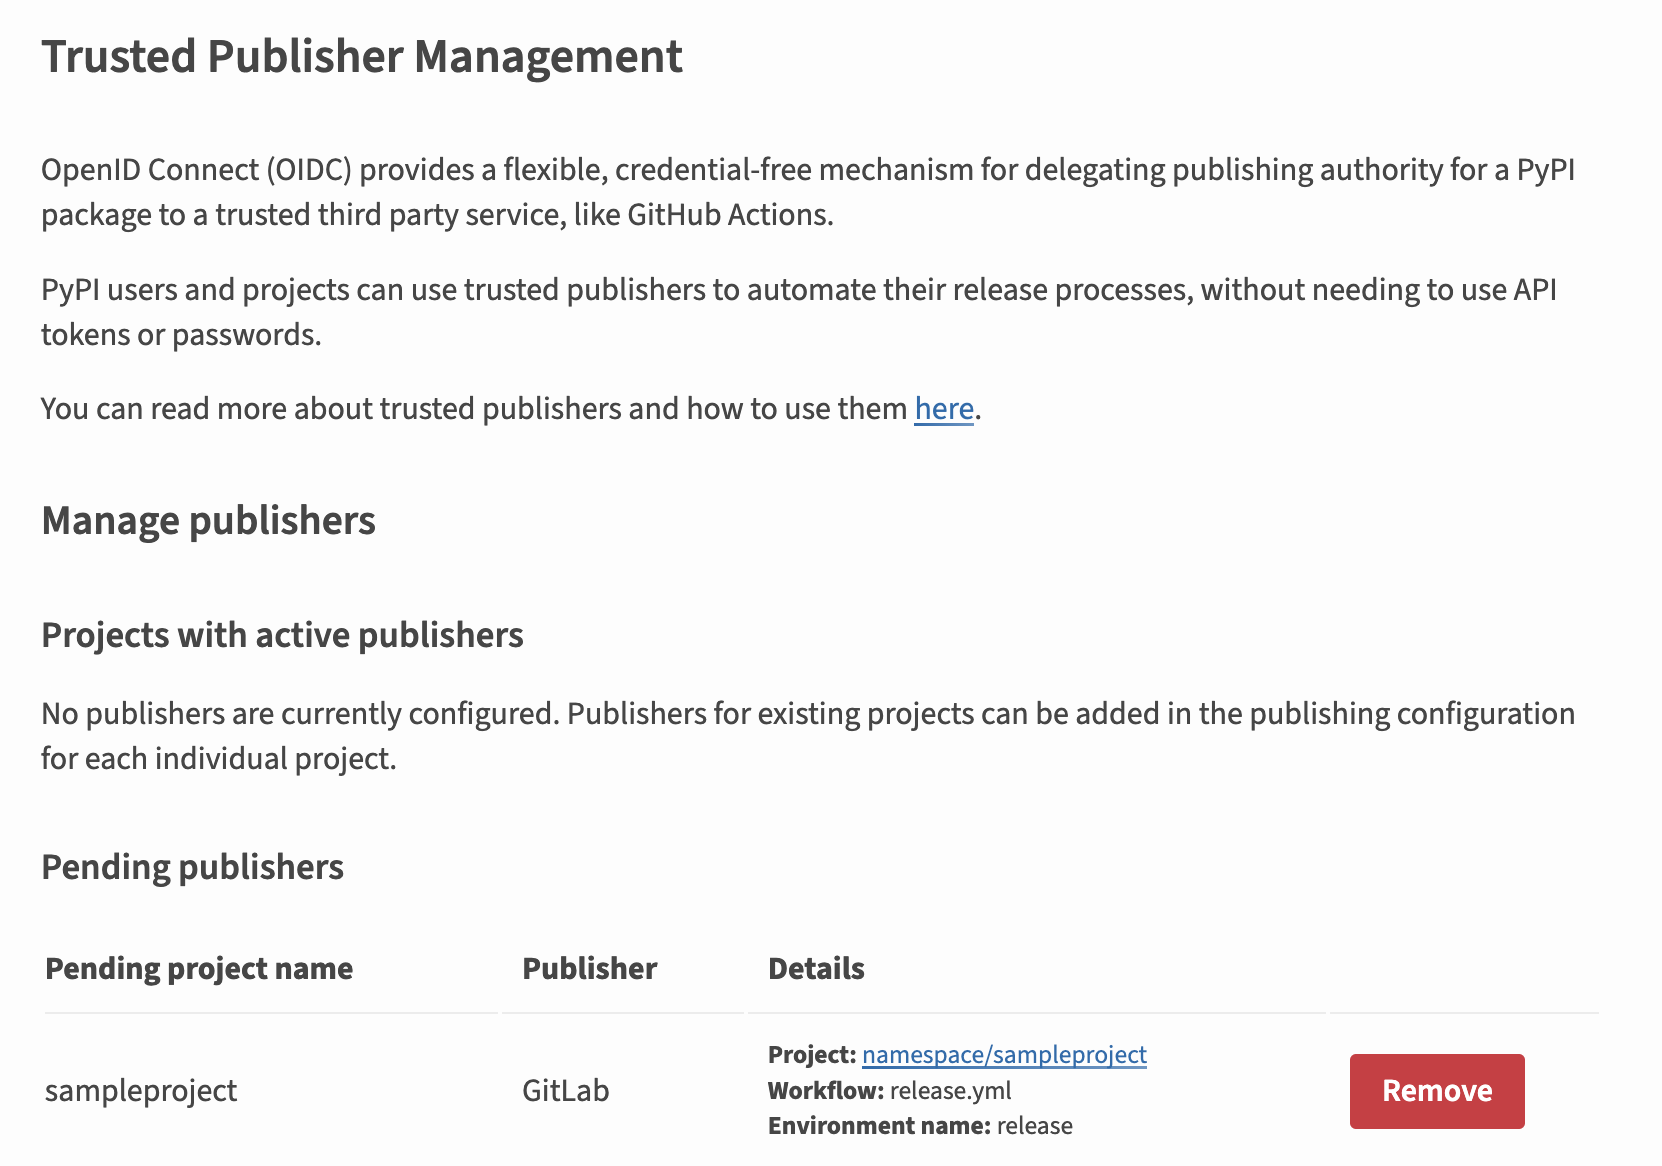
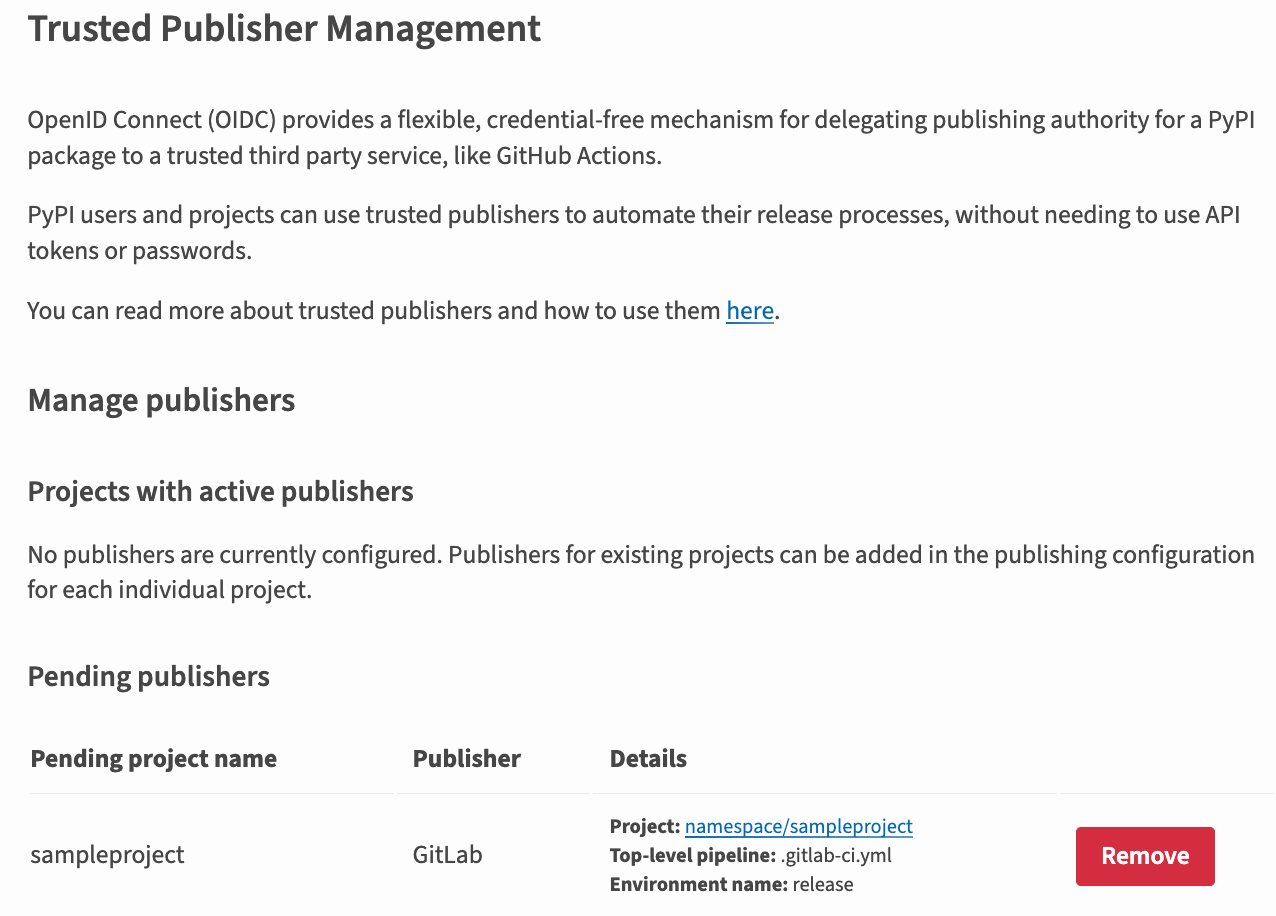
Fix GitLab Trusted Publishers UI and docs
Change the "workflow file path" field in the UI and in the docs to
"top-level pipeline file path". This is the correct term, since
GitLab OIDC claims only provide the top-level pipeline (usually
`.gitlab-ci.yml`), rather than individual jobs/workflows.

Also change the security model doc, to clarify that PyPI cannot
tell the difference between different .yml files that are included
in `.gitlab-ci.yml`, since it's the latter that is reported in
the claims.

diff --git a/warehouse/templates/manage/project/publishing.html b/warehouse/templates/manage/project/publishing.html
@@ -167,14 +167,14 @@
       </div>
       <div class="form-group">
         <label for="workflow_filepath" class="form-group__label">
-          {% trans %}Workflow file path{% endtrans %}
+          {% trans %}Top-level pipeline file path{% endtrans %}
           {% if gitlab_publisher_form.workflow_filepath.flags.required %}
           <span class="form-group__required">{% trans %}(required){% endtrans %}</span>
           {% endif %}
         </label>
         {{ gitlab_publisher_form.workflow_filepath(placeholder=gettext(".gitlab-ci.yml"), class_="form-group__field", autocomplete="off", **{"aria-describedby":"workflow_filepath-errors"}) }}
         <p class="form-group__help-text">
-          {% trans %}The file path of the publishing workflow, relative to the project's root. This file should exist in the project configured above (external workflows are not supported).{% endtrans %}
+          {% trans %}The file path of the top-level pipeline, relative to the project's root. This file should exist in the project configured above (external pipelines are not supported).{% endtrans %}
         </p>
         <div id="workflow_filepath-errors">
           {{ field_errors(gitlab_publisher_form.workflow_filepath) }}

diff --git a/warehouse/templates/manage/account/publishing.html b/warehouse/templates/manage/account/publishing.html
@@ -199,14 +199,14 @@
     </div>
     <div class="form-group">
       <label for="workflow_filepath" class="form-group__label">
-        {% trans %}Workflow file path{% endtrans %}
+        {% trans %}Top-level pipeline file path{% endtrans %}
         {% if pending_gitlab_publisher_form.workflow_filepath.flags.required %}
         <span class="form-group__required">{% trans %}(required){% endtrans %}</span>
         {% endif %}
       </label>
       {{ pending_gitlab_publisher_form.workflow_filepath(placeholder=gettext(".gitlab-ci.yml"), class_="form-group__field", autocomplete="off", **{"aria-describedby":"workflow_filepath-errors"}) }}
       <p class="form-group__help-text">
-        {% trans %}The file path of the publishing workflow, relative to the project's root. This file should exist in the project configured above (external workflows are not supported).{% endtrans %}
+        {% trans %}The file path of the top-level pipeline, relative to the project's root. This file should exist in the project configured above (external pipelines are not supported).{% endtrans %}
       </p>
       <div id="workflow_filepath-errors">
         {{ field_errors(pending_gitlab_publisher_form.workflow_filepath) }}

diff --git a/warehouse/templates/manage/manage_base.html b/warehouse/templates/manage/manage_base.html
@@ -547,7 +547,7 @@
       {% endif %}
     {% elif publisher.publisher_name == "GitLab" %}
       <b>Project:</b> <a href="{{ publisher.publisher_url() }}">{{ publisher.project_path }}</a><br>
-      <b>Workflow:</b> {{ publisher.workflow_filepath }}<br>
+      <b>Top-level pipeline:</b> {{ publisher.workflow_filepath }}<br>
       <b>Environment name:</b>
       {% if publisher.environment %}
         {{ publisher.environment }}

diff --git a/warehouse/oidc/forms/gitlab.py b/warehouse/oidc/forms/gitlab.py
@@ -50,7 +50,9 @@ class GitLabPublisherBase(forms.Form):
 
     workflow_filepath = wtforms.StringField(
         validators=[
-            wtforms.validators.InputRequired(message=_("Specify workflow filepath"))
+            wtforms.validators.InputRequired(
+                message=_("Specify top-level pipeline file path")
+            )
         ]
     )
 
@@ -73,11 +75,11 @@ class GitLabPublisherBase(forms.Form):
             workflow_filepath.endswith(".yml") or workflow_filepath.endswith(".yaml")
         ):
             raise wtforms.validators.ValidationError(
-                _("Workflow file path must end with .yml or .yaml")
+                _("Top-level pipeline file path must end with .yml or .yaml")
             )
         if workflow_filepath.startswith("/") or workflow_filepath.endswith("/"):
             raise wtforms.validators.ValidationError(
-                _("Workflow file path cannot start or end with /")
+                _("Top-level pipeline file path cannot start or end with /")
             )
 
     @property

diff --git a/docs/user/trusted-publishers/security-model.md b/docs/user/trusted-publishers/security-model.md
@@ -180,14 +180,14 @@ own security model and considerations.
       [`id_tokens`](https://docs.gitlab.com/ee/ci/yaml/index.html#id_tokens) keyword,
       along with the desired audience. The tokens are made available through
       environment variables when the job runs.
-    * The claims defined in an OIDC token are *bound to the workflow*, meaning
-      that a workflow defined at `foo.yml` in `org/repo` **cannot impersonate**
-      a workflow defined at `bar.yml` in `org/repo`. However, if `foo.yml` is
-      *renamed* to `bar.yml`, then the *new* `bar.yml` will be indistinguishable
-      from the old `bar.yml` **except** for claims that reflect the repository's
-      state (e.g. `git` ref, branch, etc.).
-    * An OIDC token for a specific repository and workflow can be generated by anyone
-      who has permissions to run that workflow in the repository's CI/CD.
+    * The claims defined in an OIDC token are *bound to the group and project*, meaning that a
+      repository located at orgA/repo cannot impersonate a repository located at orgB/repo.
+    * The claims defined in an OIDC token are *bound to the top-level pipeline*, meaning
+      that any pipeline included by the top-level pipeline (usually `.gitlab-ci.yml`)
+      will be able to upload using a trusted publisher that trusts the `.gitlab-ci.yml`
+      pipeline.
+    * An OIDC token for a specific repository and pipeline can be generated by anyone
+      who has permissions to run that pipeline in the repository's CI/CD.
 
     <h3>Considerations</h3>
 
@@ -203,14 +203,13 @@ own security model and considerations.
           username or group is deleted and a new one with the same name is created,
           PyPI will still recognise OIDC tokens generated by the new one as valid.
 
-        * Trust the correct workflow: you shouldn't trust every workflow
-          to upload to PyPI; instead, you should isolate responsibility to the
-          smallest (and least-privileged) possible separate workflow. We recommend
-          naming this workflow `release.yml`.
-
         * Take care when merging third-party changes to your code: if you trust
-          `release.yml`, then you must make sure that third-party changes to that
-          workflow (or code that runs within that workflow) are not malicious.
+          the top-level pipeline `.gitlab-ci.yml`, then you must make sure that
+          third-party changes to that file are not malicious. This is particularly
+          important since GitLab does not provide granular information about which
+          job requested the token: only the top-level pipeline is included in the
+          claims, which means that any job run by the top-level pipeline can request
+          a valid OIDC token.
 
         * Take care when adding repository contributors, members, and administrators:
           by default, anybody who can unconditionally commit to your repository can

diff --git a/docs/user/trusted-publishers/adding-a-publisher.md b/docs/user/trusted-publishers/adding-a-publisher.md
@@ -112,14 +112,14 @@ each.
         instances are not supported.
 
     For GitLab CI/CD, you **must** provide the repository's namespace, the
-    repository's name, and the filepath of the GitLab CI/CD workflow that's
-    authorized to upload to PyPI. In addition, you may **optionally**
-    provide the name of a
+    repository's name, and the filepath of the top-level GitLab CI/CD pipeline
+    definition that's authorized to upload to PyPI. In addition, you may
+    **optionally** provide the name of a
     [GitLab CI/CD environment](https://docs.gitlab.com/ee/ci/environments/).
 
     For example, if you have a project at `https://gitlab.com/namespace/sampleproject`
-    that uses a publishing workflow defined in `release.yml` and a custom
-    environment named `release`, then you'd do the following:
+    with a top-level pipeline defined in `.gitlab-ci.yml` and a custom environment
+    named `release`, then you'd do the following:
 
     ![Image showing adding a new GitLab publisher](/assets/trusted-publishing/gitlab/project-publishing-form.png)
 
@@ -135,7 +135,7 @@ each.
 
     ![Image showing a newly added GitLab publisher](/assets/trusted-publishing/gitlab/project-publisher-registered.png)
 
-    From this point onwards, the `release.yml` workflow on `namespace/sampleproject`
+    From this point onwards, the `.gilab-ci.yml` pipeline on `namespace/sampleproject`
     will be able to generate short-lived API tokens from PyPI for the project you've
     registered it against.
 

diff --git a/docs/user/trusted-publishers/creating-a-project-through-oidc.md b/docs/user/trusted-publishers/creating-a-project-through-oidc.md
@@ -81,8 +81,8 @@ provide the name of the PyPI project that will be created.
         instances are not supported.
 
      If you have a repository at
-    `https://gitlab.com/namespace/sampleproject` with a release workflow at
-    `release.yml` and an environment named `release` that you would like to publish
+    `https://gitlab.com/namespace/sampleproject` with a top-level pipeline defined in
+    `.gitlab-ci.yml` and an environment named `release` that you would like to publish
     to PyPI as `sampleproject`, then you would do the following:
 
     ![Image showing adding a new GitLab publisher](/assets/trusted-publishing/gitlab/pending-publisher-form-filled.png)
